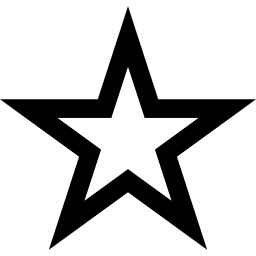
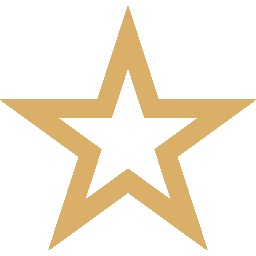
Overhauled colors and added descriptive text for bullet points

Changed region(s): [[0.0, 0.0312, 1.0, 0.9688]]

diff --git a/index.html b/index.html
@@ -67,42 +67,108 @@
         <!-- Example row of columns -->
         <div class="row">
           <div class="col-md-4">
-            <div id="edlaw"></div>
-            <h2>Higher education law</h2>
+            <div id="service">
+              <div id="edlaw"></div>
+              <h2>Higher education law</h2>
+              <br />
+              <ul class="service-bullets" type="disc">
+                <li>Regulatory compliance</li>
+                <li>Contracts</li>
+                <li>Employment</li>
+              </ul>
+            </div>
           </div>
           <div class="col-md-4">
-            <div id="intprop"></div>
-            <h2>Intellectual property</h2>
+            <div id="service">
+              <div id="intprop"></div>
+              <h2>Intellectual property</h2>
+              <br />
+              <ul class="service-bullets" type="disc">
+                <li>Copyright, Trademark and Tech Transfer</li>
+                <li>HEOA Copyright Compliance</li>
+                <li>Institutional IP Policies, including Distance Education</li>
+              </ul>
+            </div>
          </div>
           <div class="col-md-4">
-            <div id="edpolicy"></div>
-            <h2>Higher education policy</h2>
+            <div id="service">
+              <div id="edpolicy"></div>
+              <h2>Higher education policy</h2>
+              <br />
+              <ul class="service-bullets" type="disc">
+                <li>Administration, Finance and Human Resources</li>
+                <li>Governance, Record Retention and Risk Management</li>
+                <li>Information Technology</li>
+              </ul>
+            </div>
           </div>
         </div>
+        <br />
         <div class="row">
           <div class="col-md-4">
-            <div id="resource"></div>
-            <h2>Resource development strategies</h2>
+            <div id="service">
+              <div id="resource"></div>
+              <h2>Resource development strategies</h2>
+              <br />
+              <ul class="service-bullets" type="disc">
+                <li>Government contracts management</li>
+                <li>Grant writing and accounting</li>
+                <li>Contract compliance</li>
+              </ul>
+            </div>
           </div>
           <div class="col-md-4">
-            <div id="cloud"></div>
-            <h2>Cloud contracts and processes</h2>
+            <div id="service">
+              <div id="cloud"></div>
+              <h2>Cloud contracts and processes</h2>
+              <br />
+              <ul class="service-bullets" type="disc">
+                <li>Contract formation for privacy, data security and business continuity</li>
+                <li>Legal, security, policy, technology and communications implementation of cloud contracts</li>
+                <li>Information, technology and business process alignment</li>
+              </ul>
+            </div>
          </div>
           <div class="col-md-4">
-            <div id="career"></div>
-            <h2>Professional management coaching</h2>
+            <div id="service">
+              <div id="career"></div>
+              <h2>Professional management coaching</h2>
+              <br />
+              <ul class="service-bullets" type="disc">
+                <li>Career and peer coaching</li>
+                <li>Organization development</li>
+                <li>Leadership training</li>
+              </ul>
+            </div>
           </div>
         </div>
+        <br />
         <div class="row">
           <div class="col-md-2">
           </div>
           <div class="col-md-4">
-            <div id="info"></div>
-            <h2>Information management</h2>
+            <div id="service">
+              <div id="info"></div>
+              <h2>Information management</h2>
+              <br />
+              <ul class="service-bullets" type="disc">
+                <li>Privacy, data security and regulatory compliance</li>
+                <li>Information, technology and business process alignment</li>
+                <li>Information stewardship and custodianship programs</li>
+              </ul>
+            </div>
           </div>
           <div class="col-md-4">
-            <div id="webdev"></div>
-            <h2>Full stack web development</h2>
+            <div id="service">
+              <div id="webdev"></div>
+              <h2>Full stack web development</h2>
+              <br />
+              <ul class="service-bullets" type="disc">
+                <li>Basic websites</li>
+                <li>Ruby on Rails-based web apps</li>
+                <li>iPhone and iPad apps</li>
+              </ul>
+            </div>
          </div>
         </div>
        
@@ -114,16 +180,40 @@
         <h1>Academic Administrative Services</h1><br />
         <div class="row">
           <div class="col-md-4">
-            <div id="coursedev"></div>
-            <h2>Inter-institutional course development</h2>
+            <div id="service">
+              <div id="coursedev"></div>
+              <h2>Inter-institutional course development</h2>
+              <br />
+              <ul class="service-bullets" type="disc">
+                <li>Faculty directory search services to find international faculty cohorts</li>
+                <li>Pedagogical strategies, teaching and learning methods in a synchronistic and asynchronistic on-line environment</li>
+                <li>Policy, technology, and reference library support</li>
+              </ul>
+            </div>
           </div>
           <div class="col-md-4">
-            <div id="digitalliteracy"></div>
-            <h2>Information and digital literacy programs</h2>
+            <div id="service">
+              <div id="digitalliteracy"></div>
+              <h2>Information and digital literacy programs</h2>
+              <br />
+              <ul class="service-bullets" type="disc">
+                <li>Program and curriculum development</li>
+                <li>Policy development for academic freedom, academic integrity and intellectual property</li>
+                <li>Full stack development of on-line programs</li>
+              </ul>
+            </div>
           </div>
           <div class="col-md-4">
-            <div id="copyright"></div>
-            <h2>Copyright, social networking, and privacy</h2>
+            <div id="service">
+              <div id="copyright"></div>
+              <h2>Copyright, social networking, and privacy</h2>
+              <br />
+              <ul class="service-bullets" type="disc">
+                <li>Digital Millennium Copyright Act and Higher Education Opportunity Act “peer to peer” compliance</li>
+                <li>Institutional on-line marketing and social networking strategies</li>
+                <li>Institutional policy for faculty, students and staff for on-line, social networking activities and use</li>
+              </ul>
+            </div>
           </div>
         </div>
       </div>

diff --git a/css/mitranoandassociates.css b/css/mitranoandassociates.css
@@ -38,11 +38,15 @@ footer ul li{
 }
 
 .container{
-	max-width: 760px;
+	max-width: 900px;
 	width: 100%;
 	margin-right: auto;
 	margin-left: auto;
 	margin-bottom: 40px;
+}
+
+.service-bullets{
+	color: #dab068
 }
 
 .splash{
@@ -77,8 +81,8 @@ footer ul li{
 
 #edlaw
 {
-	width: 64px;
-	height: 64px;
+	width: 40px;
+	height: 40px;
 	background-image: url(../img/edlaw-book.png);
 	background-size: cover;
  	margin: 20px auto 20px auto;
@@ -86,8 +90,8 @@ footer ul li{
 
 #intprop
 {
-	width: 64px;
-	height: 64px;
+	width: 40px;
+	height: 40px;
 	background-image: url(../img/intproperty-lightbulb.png);
 	background-size: cover;
  	margin: 20px auto 20px auto;
@@ -95,8 +99,8 @@ footer ul li{
 
 #edpolicy
 {
-	width: 64px;
-	height: 64px;
+	width: 40px;
+	height: 40px;
 	background-image: url(../img/edpolicy-cap.png);
 	background-size: cover;
  	margin: 20px auto 20px auto;
@@ -104,8 +108,8 @@ footer ul li{
 
 #resource
 {
-	width: 64px;
-	height: 64px;
+	width: 40px;
+	height: 40px;
 	background-image: url(../img/resource.png);
 	background-size: cover;
  	margin: 20px auto 20px auto;
@@ -113,26 +117,17 @@ footer ul li{
 
 #cloud
 {
-	width: 64px;
-	height: 64px;
+	width: 40px;
+	height: 40px;
 	background-image: url(../img/cloud-cloud.png);
-	background-size: cover;
- 	margin: 20px auto 20px auto;
-}
-
-#career
-{
-	width: 64px;
-	height: 64px;
-	background-image: url(../img/careermgmt-star.png);
 	background-size: cover;
  	margin: 20px auto 20px auto;
 }
 
 #info
 {
-	width: 64px;
-	height: 64px;
+	width: 40px;
+	height: 40px;
 	background-image: url(../img/infomgmt-chatbubble.png);
 	background-size: cover;
  	margin: 20px auto 20px auto;
@@ -140,17 +135,26 @@ footer ul li{
 
 #webdev
 {
-	width: 64px;
-	height: 64px;
+	width: 40px;
+	height: 40px;
 	background-image: url(../img/webdev-comp.png);
+	background-size: cover;
+ 	margin: 20px auto 20px auto;
+}
+
+#career
+{
+	width: 40px;
+	height: 40px;
+	background-image: url(../img/careermgmt-star.png);
 	background-size: cover;
  	margin: 20px auto 20px auto;
 }
 
 #coursedev
 {
-	width: 64px;
-	height: 64px;
+	width: 40px;
+	height: 40px;
 	background-image: url(../img/coursedev.png);
 	background-size: cover;
  	margin: 20px auto 20px auto;
@@ -158,8 +162,8 @@ footer ul li{
 
 #digitalliteracy
 {
-	width: 64px;
-	height: 64px;
+	width: 40px;
+	height: 40px;
 	background-image: url(../img/digitalliteracy-retweet.png);
 	background-size: cover;
  	margin: 20px auto 20px auto;
@@ -167,9 +171,9 @@ footer ul li{
 
 #copyright
 {
-	width: 64px;
-	height: 64px;
-	background-image: url(../img/copyright-copyright.jpg);
+	width: 40px;
+	height: 40px;
+	background-image: url(../img/copyright-copyright.png);
 	background-size: cover;
  	margin: 20px auto 20px auto;
 }
@@ -260,7 +264,9 @@ h1
 h2
 {
 	text-align: center;
+	font-size: 20px;
 	margin: 0px auto;
+	color: #dab068;
 }
 
 h3
